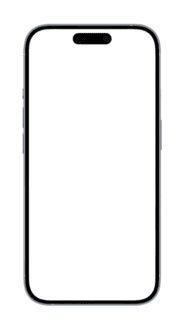
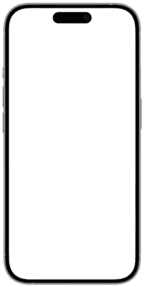
fixed mobile png overflow

Changed region(s): [[0.0, 0.0, 0.9931, 1.0]]

diff --git a/src/Sections/DownloadPage.tsx b/src/Sections/DownloadPage.tsx
@@ -5,7 +5,7 @@ export default function DownloadPage() {
   return (
     <section
       id="download"
-      className="font-space-grotesk flex flex-col w-full min-h-screen justify-center items-center py-20"
+      className="font-space-grotesk flex flex-col w-full min-h-screen justify-center items-center pt-20"
     >
       <div className="grid grid-cols-1 lg:grid-cols-2 gap-10 lg:gap-20 w-full items-center">
 
@@ -44,11 +44,11 @@ export default function DownloadPage() {
             autoPlay
             loop
             muted
-            className="absolute h-100 w-auto object-contain rounded-2xl"
+            className="absolute h-120 py-3 w-auto object-contain rounded-4xl overflow-hidden z-1"
           />
 
 
-          <img src={mobile} alt="InsightFlow mobile app" className="h-120 w-auto object-contain overflow-hidden z-2" />
+          <img src={mobile} alt="InsightFlow mobile app" className="h-120 w-auto object-contain overflow-hidden rounded-xl z-2" />
         </div>
 
       </div>

diff --git a/src/components/flowchart/FlowChartMobile.tsx b/src/components/flowchart/FlowChartMobile.tsx
@@ -15,7 +15,7 @@ export default function FlowChartMobile() {
 
         <ArrowBigDown className="text-(--primary) fill-(--primary) drop-shadow-[0_0_8px_var(--primary)] fade "/>
 
-        <div className="backdrop-blur-lg border border-(--primary)/40 bg-(--primary)/5 rounded-3xl px-10 py-12 flex flex-col items-center gap-5 relative fade">
+        <div className="backdrop-blur-lg border border-(--primary)/40 bg-(--primary)/5 rounded-3xl px-10 py-12 flex flex-col items-center gap-5 relative">
 
           <h2 className="absolute -top-5 px-6 py-2 rounded-full bg-black border border-(--primary) text-(--primary) font-orbitron text-sm tracking-widest fade">
             BACKEND

diff --git a/src/Sections/SystemArchitecture.tsx b/src/Sections/SystemArchitecture.tsx
@@ -5,7 +5,7 @@ function SystemArchitecture() {
   return (
     <section
       id="systemArchitecture"
-      className="font-space-grotesk flex flex-col w-full min-h-screen justify-center items-start py-20 gap-10"
+      className="font-space-grotesk flex flex-col w-full min-h-screen justify-center items-start pt-20 gap-10"
     >
       <div className="flex flex-col gap-3">
         <p className="font-orbitron text-[11px] tracking-[4px] text-(--primary)/70 uppercase fade">

diff --git a/src/Sections/Features.tsx b/src/Sections/Features.tsx
@@ -40,7 +40,7 @@ function Features() {
   return (
     <section
       id="features"
-      className="font-space-grotesk grid min-h-screen w-full items-center gap-10 py-20 lg:py-24 "
+      className="font-space-grotesk grid min-h-screen w-full items-center gap-10 pt-20 lg:py-24 "
     >
       {/* Header + animated description */}
       <div className="flex flex-col gap-4">

diff --git a/src/App.tsx b/src/App.tsx
@@ -29,7 +29,7 @@ function App() {
           <Sidebar/>
         </div>
 
-        <div className="z-0 inset-0 absolute opacity-10">
+        <div className="z-0 inset-0 absolute opacity-15 sm:opacity-10 ">
           <Canvas camera={{position:[0,0,10] , fov:75 } }>
             <CameraController scrollYProgress={scrollYProgress}/>
             <TorusArc/>
